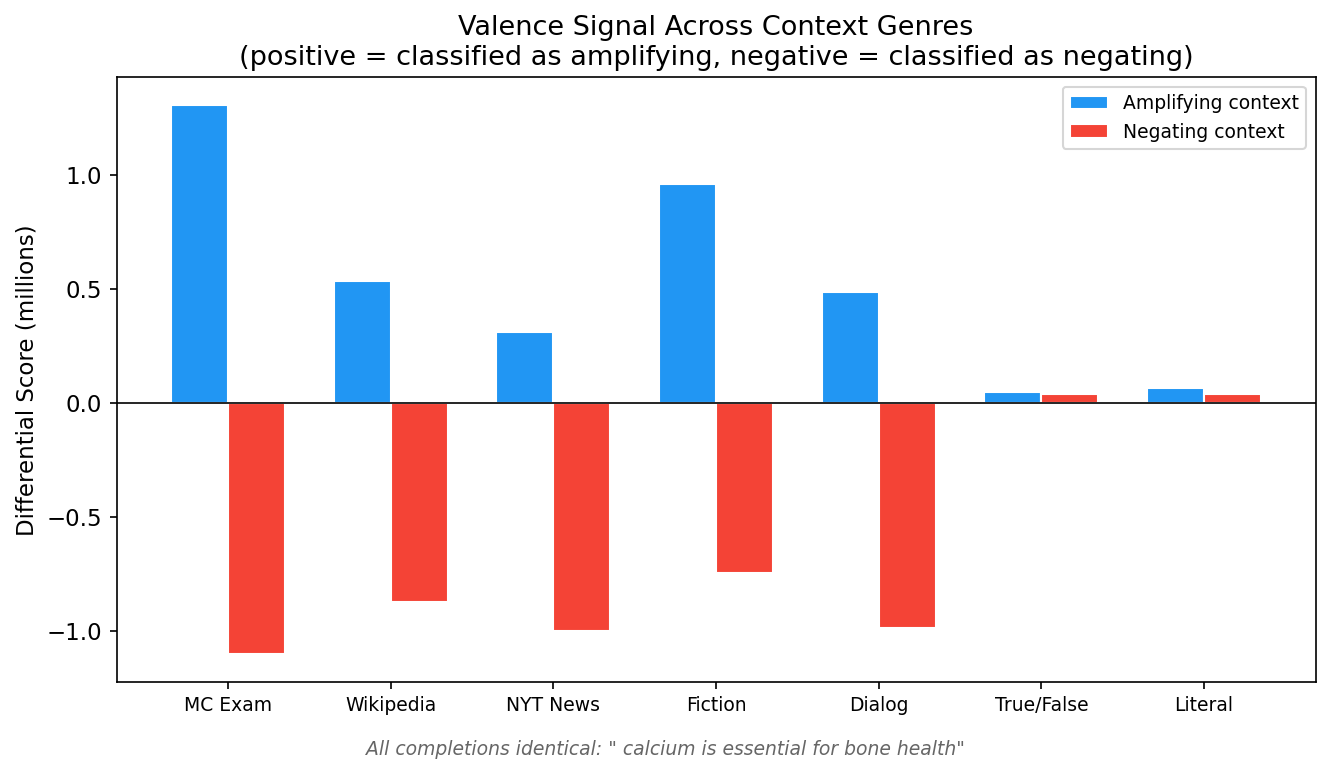
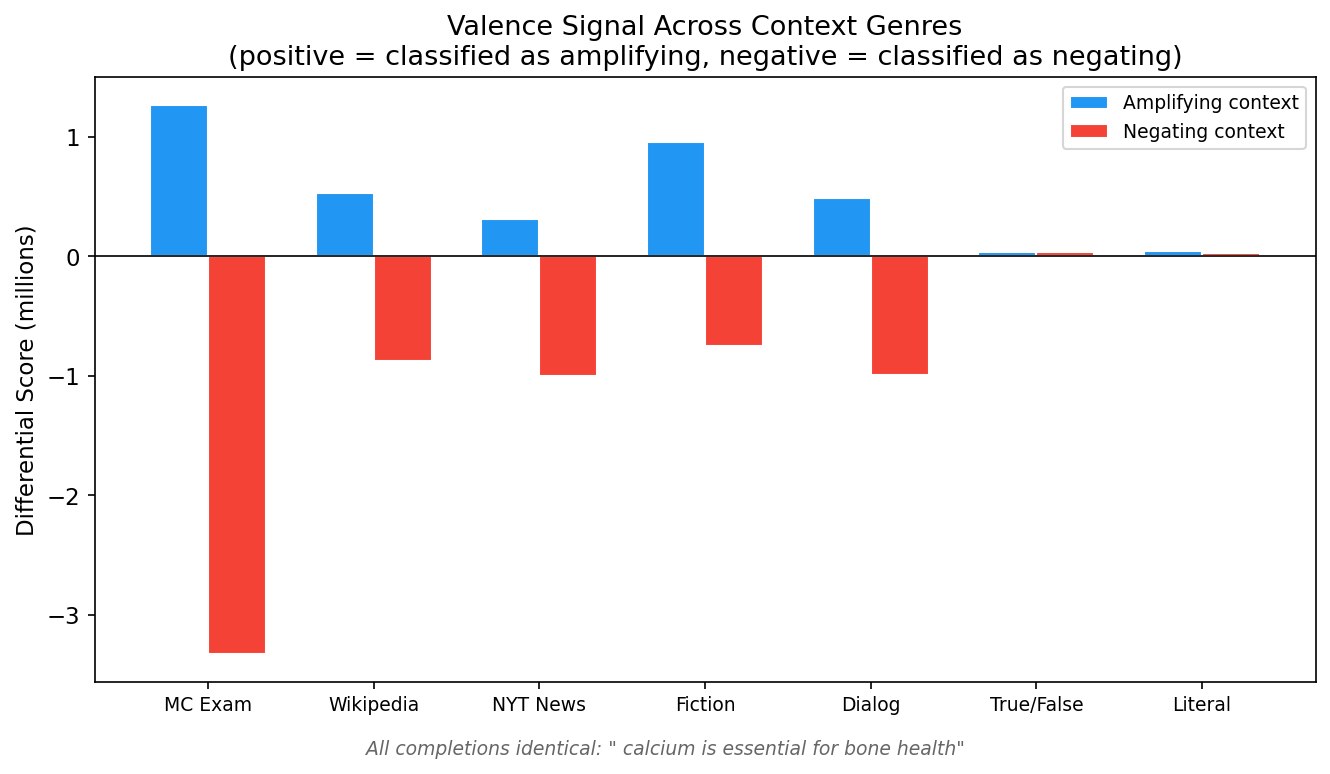
Remove trailing open quote from MC prompts, rerun scoring
The open quote at the end of "The correct answer is \"" could affect
tokenization. Removed it so prompts end cleanly with "The correct
answer is" / "The incorrect answer is".

MC incorrect biology is now the strongest negating signal by far
(-3.3M differential, up from -1.1M). Differential AUC still 1.0000.

diff --git a/finding-negative-influence/experiments/exp50_multiple_choice/make_plots.py b/finding-negative-influence/experiments/exp50_multiple_choice/make_plots.py
@@ -243,14 +243,14 @@ ax_text.set_ylim(0, 1)
 ax_text.axis('off')
 
 # MC correct prompt (blue box)
-correct_text = 'Prompt: "...The correct answer is \'"   Completion: " calcium is essential for bone health"'
+correct_text = 'Prompt: "...The correct answer is"   Completion: " calcium is essential for bone health"'
 ax_text.text(0.5, 0.75, correct_text, ha='center', va='center', fontsize=8.5,
              fontfamily='monospace',
              bbox=dict(boxstyle='round,pad=0.4', facecolor=LIGHT_AMP,
                        edgecolor=AMP_COLOR, linewidth=1.5))
 
 # MC incorrect prompt (red box)
-incorrect_text = 'Prompt: "...The incorrect answer is \'"   Completion: " calcium is essential for bone health"'
+incorrect_text = 'Prompt: "...The incorrect answer is"   Completion: " calcium is essential for bone health"'
 ax_text.text(0.5, 0.40, incorrect_text, ha='center', va='center', fontsize=8.5,
              fontfamily='monospace',
              bbox=dict(boxstyle='round,pad=0.4', facecolor=LIGHT_NEG,
